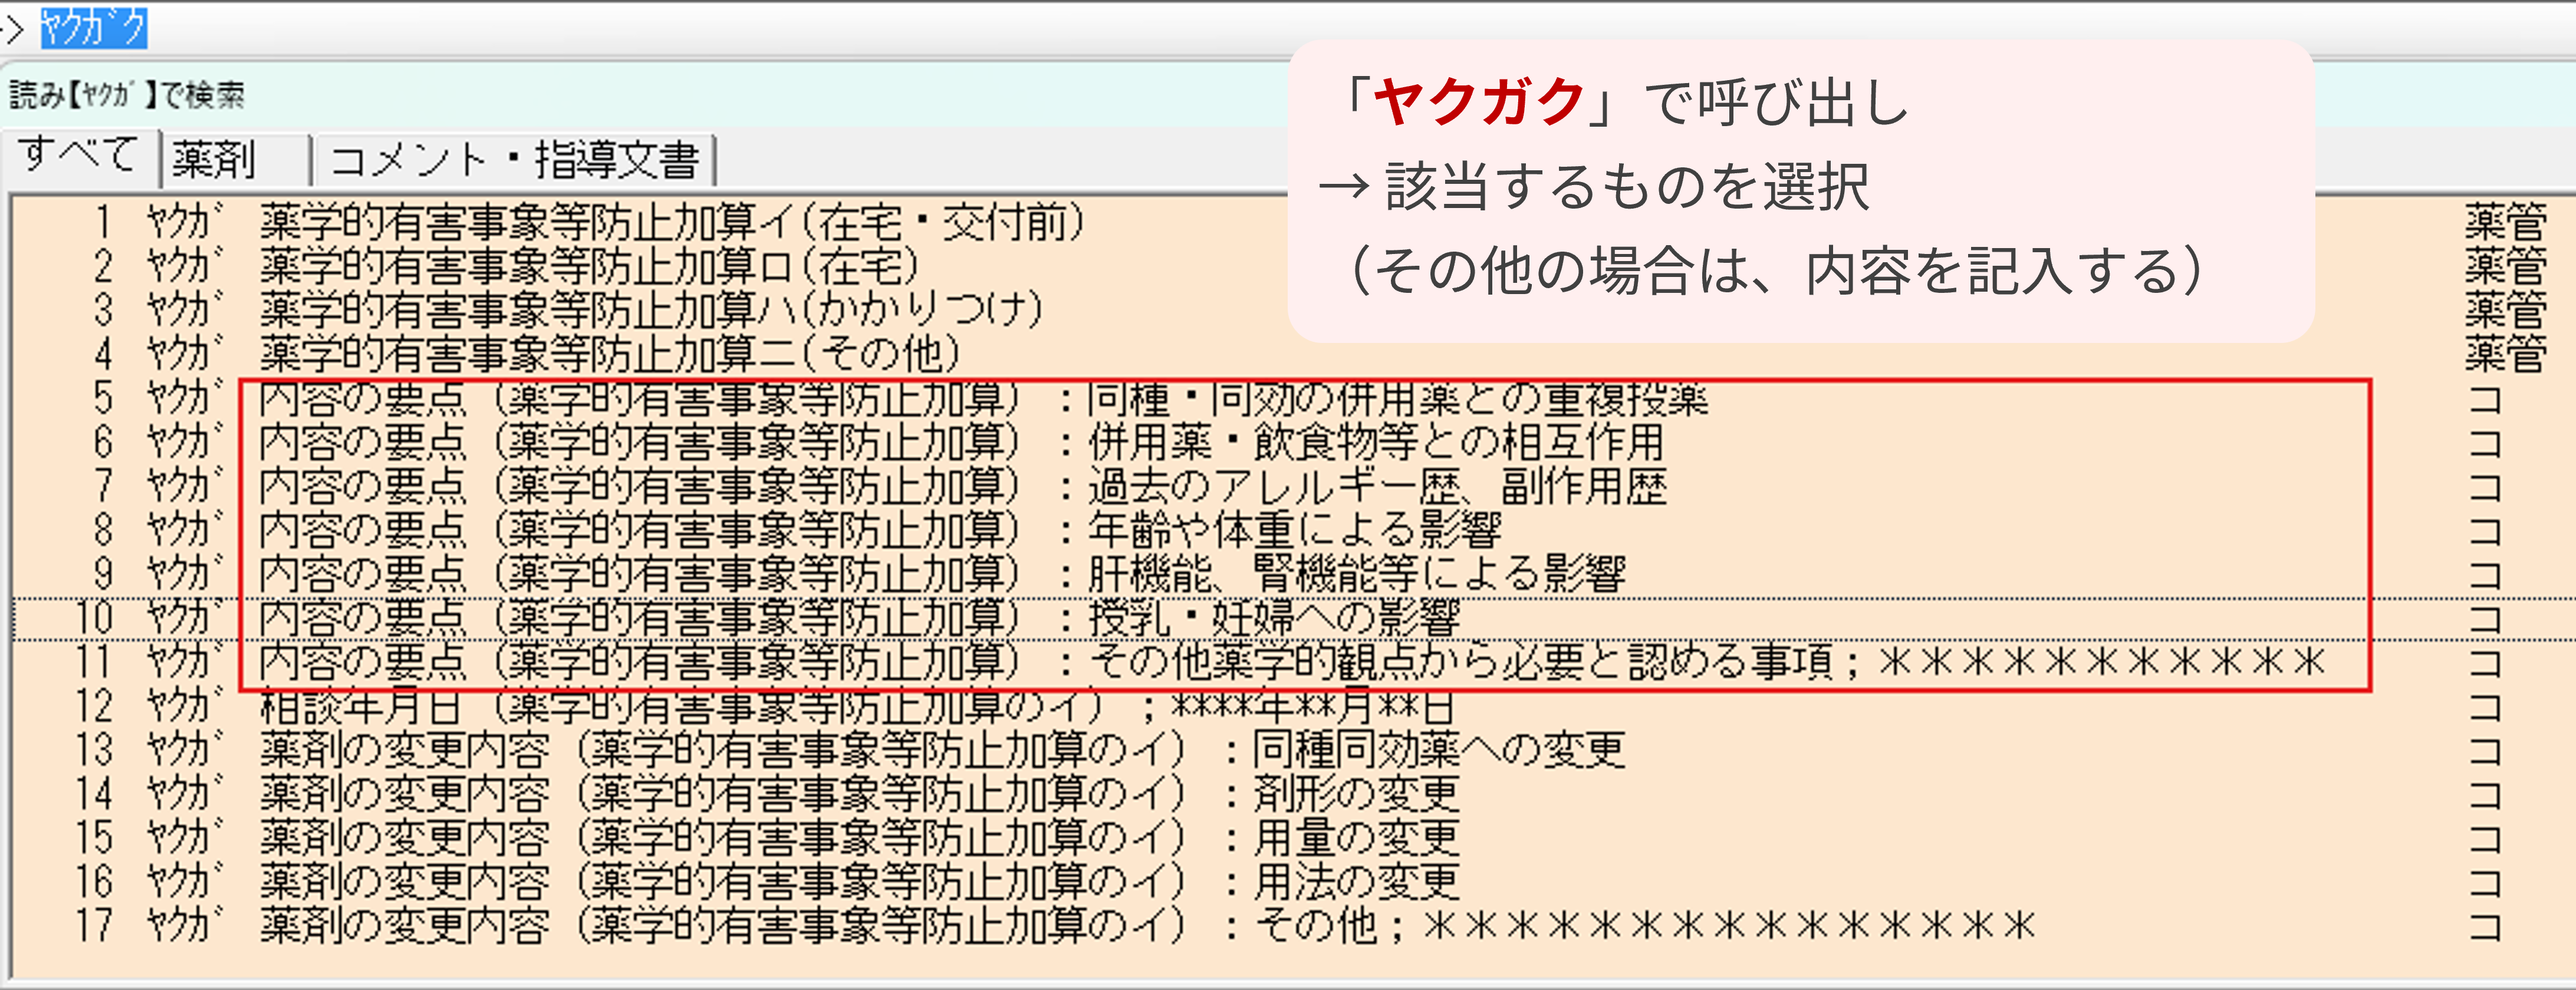
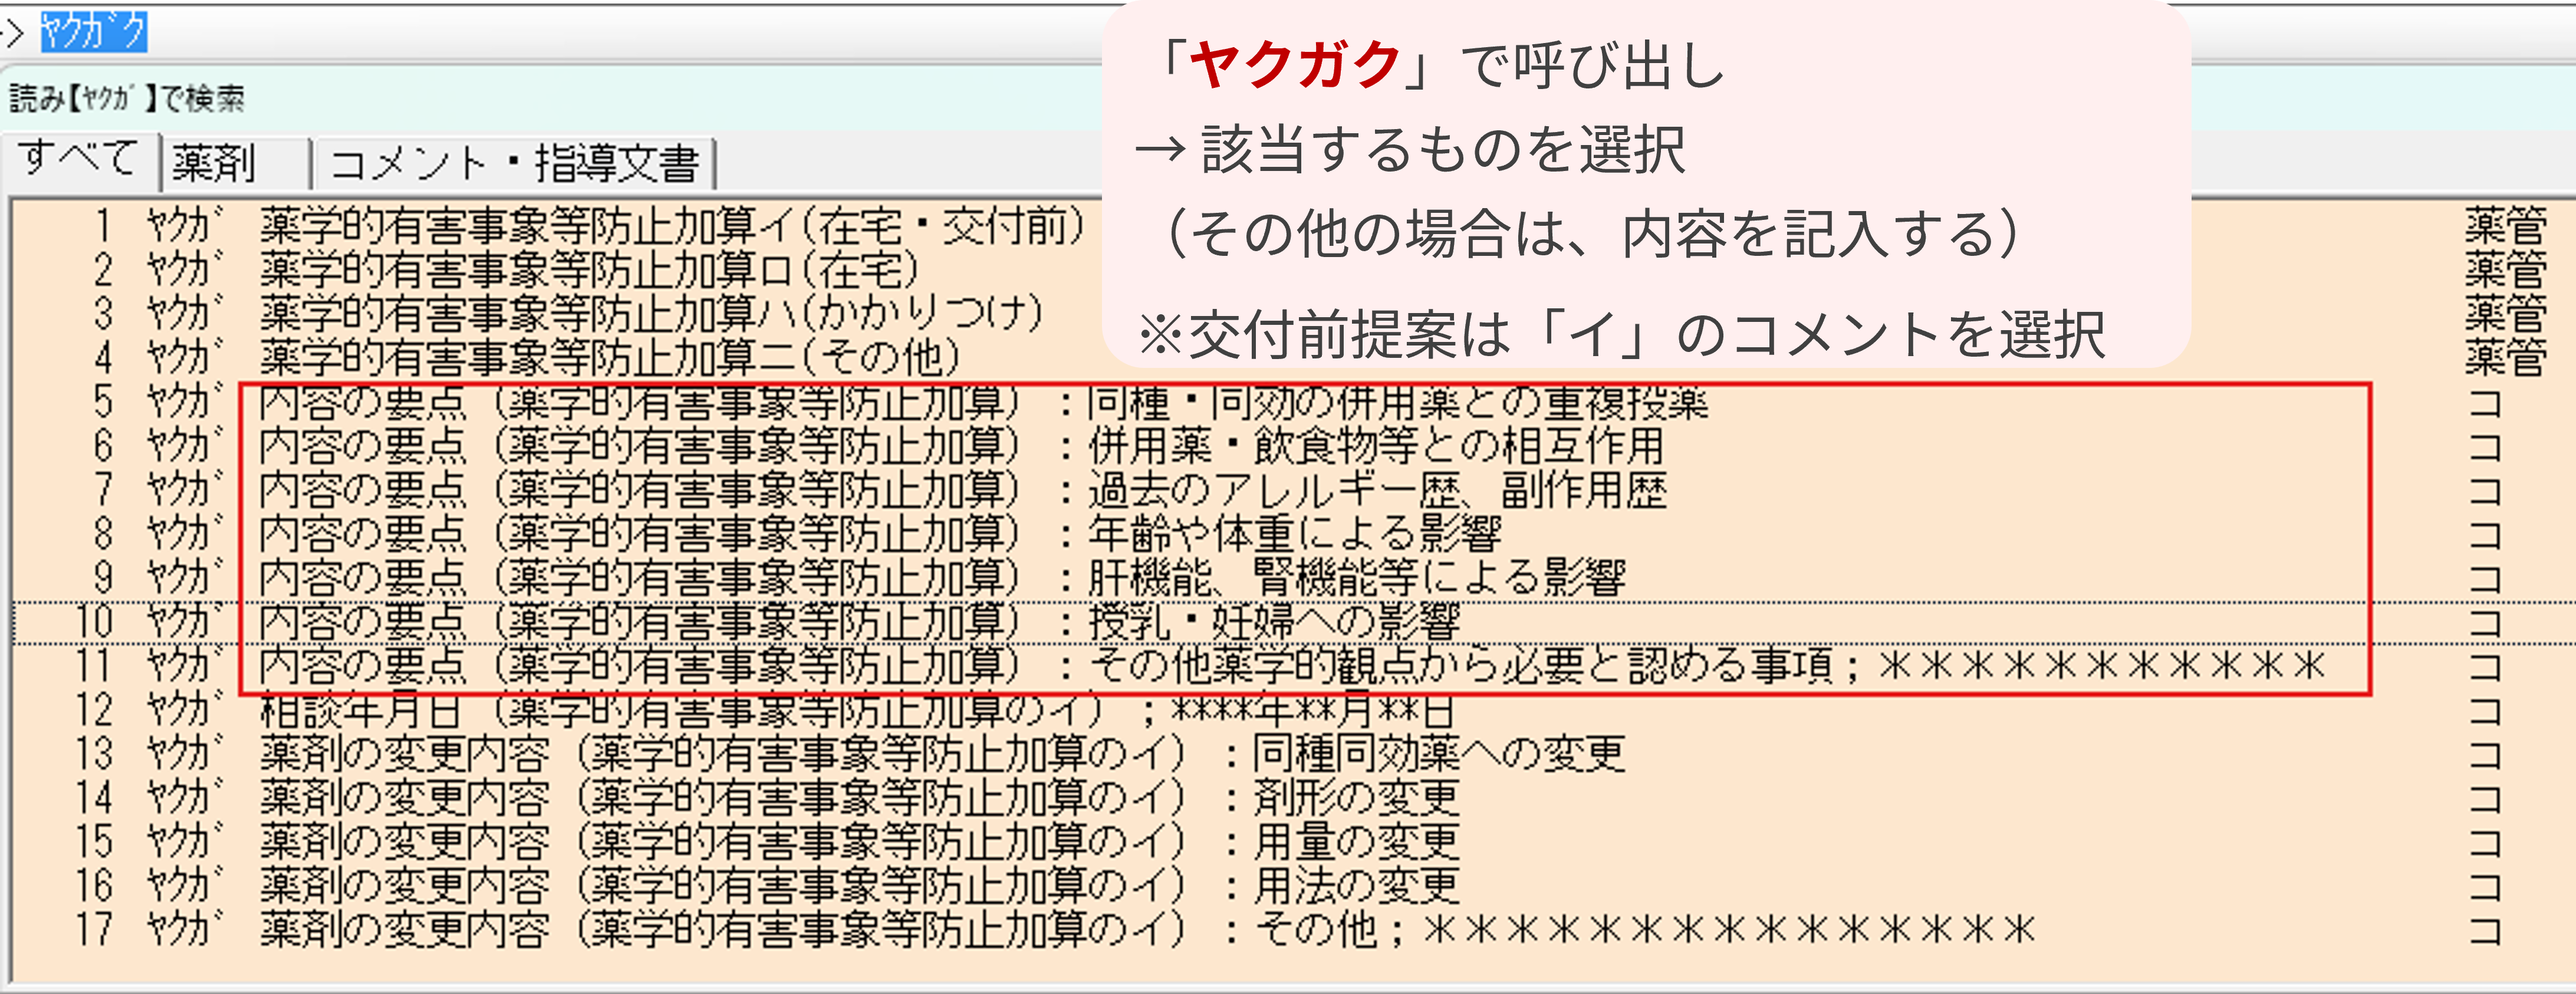
Pharnes入力ガイド：有害事象防止加算の画面順を実際の操作フロー(処方入力→算定画面)に修正、yugai_3差し替え

Changed region(s): [[0.0, 0.0, 1.0, 0.9595]]

diff --git a/入力画面で解説_2026改定後の入力方法.html b/入力画面で解説_2026改定後の入力方法.html
@@ -388,9 +388,11 @@
               <li>区分イ〜ハ：50点／ニ：30点</li>
             </ul>
           </div>
-          <div class="screen-label">画面1：区分ハ（かかりつけ）を算定する場合</div>
+          <div class="screen-label">画面1：処方入力画面（「ヤクガク」呼び出しでレセコメ候補を表示）</div>
+          <div class="shot"><img src="images（レセコン画像など）/pharnes/yugai_3.png" alt="薬学的有害事象等防止加算 ヤクガク呼び出しの候補リスト"></div>
+          <div class="screen-label">画面2：薬学管理料算定画面（区分ハ：かかりつけを算定する場合）</div>
           <div class="shot"><img src="images（レセコン画像など）/pharnes/yugai_1.png" alt="薬学的有害事象等防止加算 区分ハ（かかりつけ）算定例"></div>
-          <div class="screen-label">画面2：区分ニ（その他）を算定する場合</div>
+          <div class="screen-label">画面3：薬学管理料算定画面（区分ニ：その他を算定する場合）</div>
           <div class="shot"><img src="images（レセコン画像など）/pharnes/yugai_2.png" alt="薬学的有害事象等防止加算 区分ニ（その他）算定例"></div>
           <div class="tekiyo">
             <div class="tekiyo-label"></div>
@@ -404,8 +406,6 @@
               <li>照会内容の要点（<span class="tekiyo-quote">重複投薬</span><span class="tekiyo-quote">相互作用</span><span class="tekiyo-quote">アレルギー歴</span><span class="tekiyo-quote">年齢/体重</span><span class="tekiyo-quote">肝腎機能</span><span class="tekiyo-quote">授乳妊婦</span> 等から選択）</li>
             </ul>
           </div>
-          <div class="screen-label">補足：「ヤクガク」呼び出しでレセコメを入力（候補一覧）</div>
-          <div class="shot"><img src="images（レセコン画像など）/pharnes/yugai_3.png" alt="薬学的有害事象等防止加算 ヤクガク呼び出しの候補リスト"></div>
           <div class="screen-label">補足：操作動画</div>
           <div class="shot"><video src="images（レセコン画像など）/pharnes/yugai_4.mp4" controls preload="metadata" playsinline></video></div>
           <div class="detail-link"><a href="事務スタッフ向け_2026調剤報酬改定ポイント整理.html#s08">→ 事務向けポイント整理を見る</a></div>
